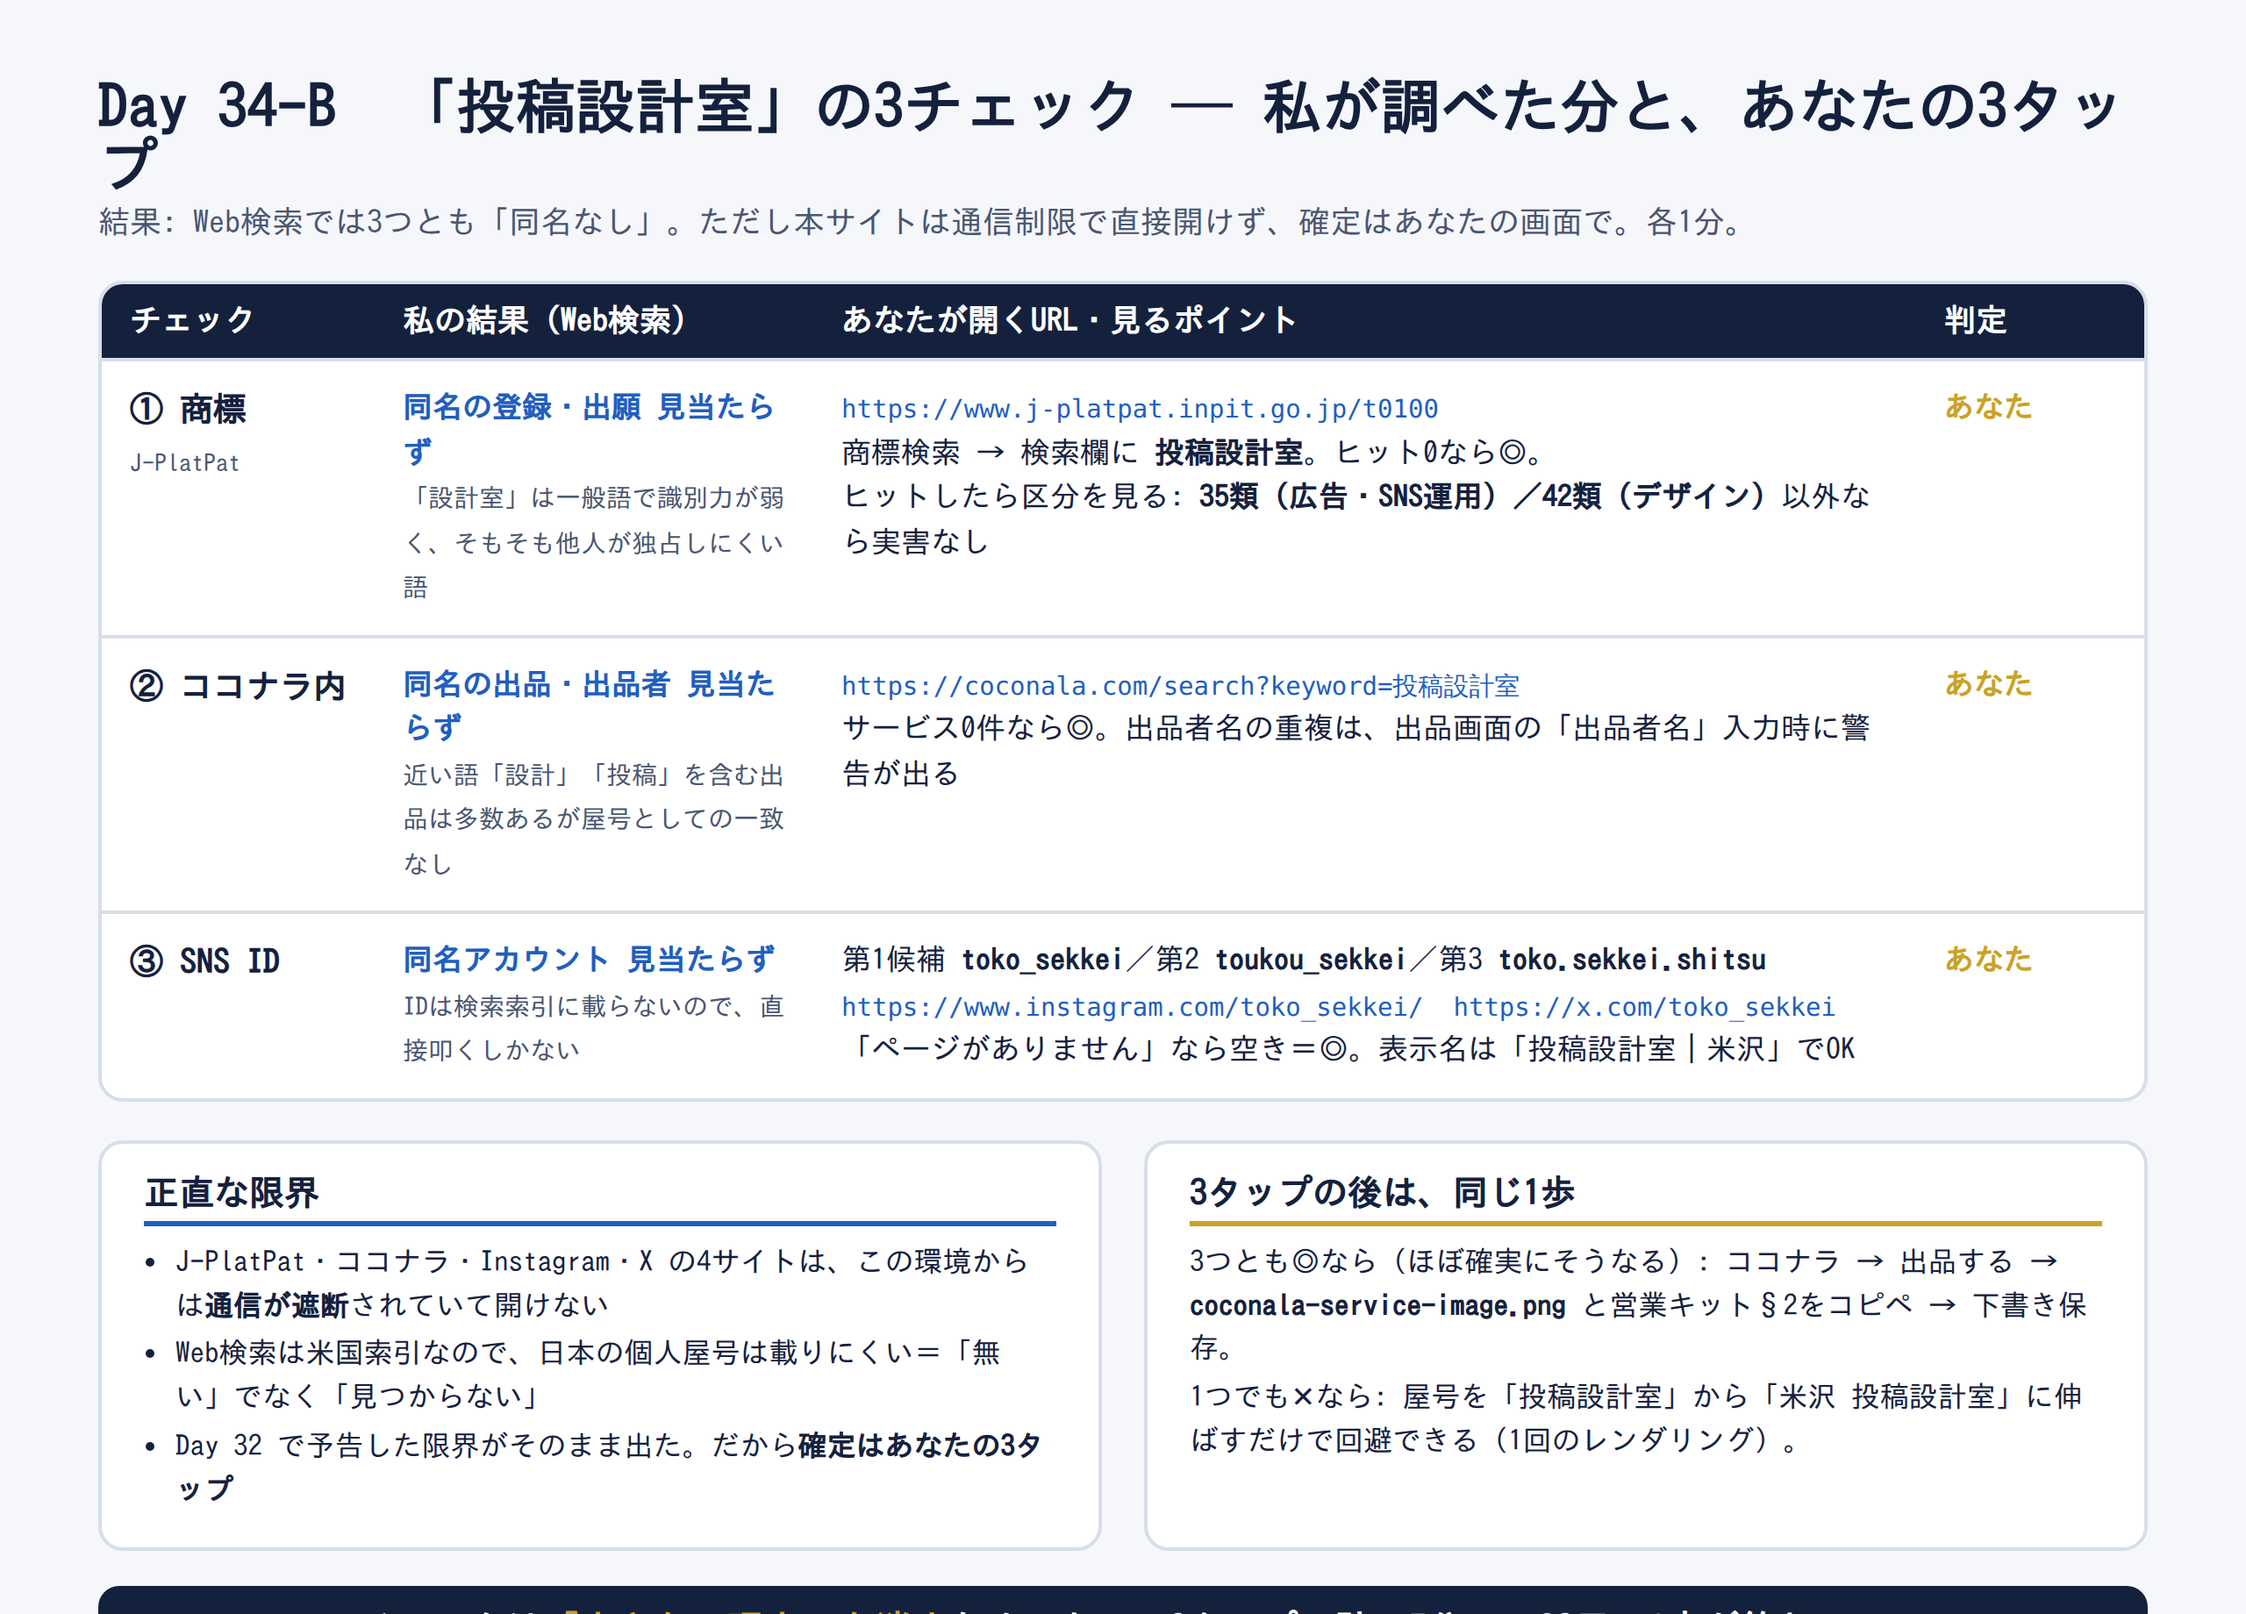
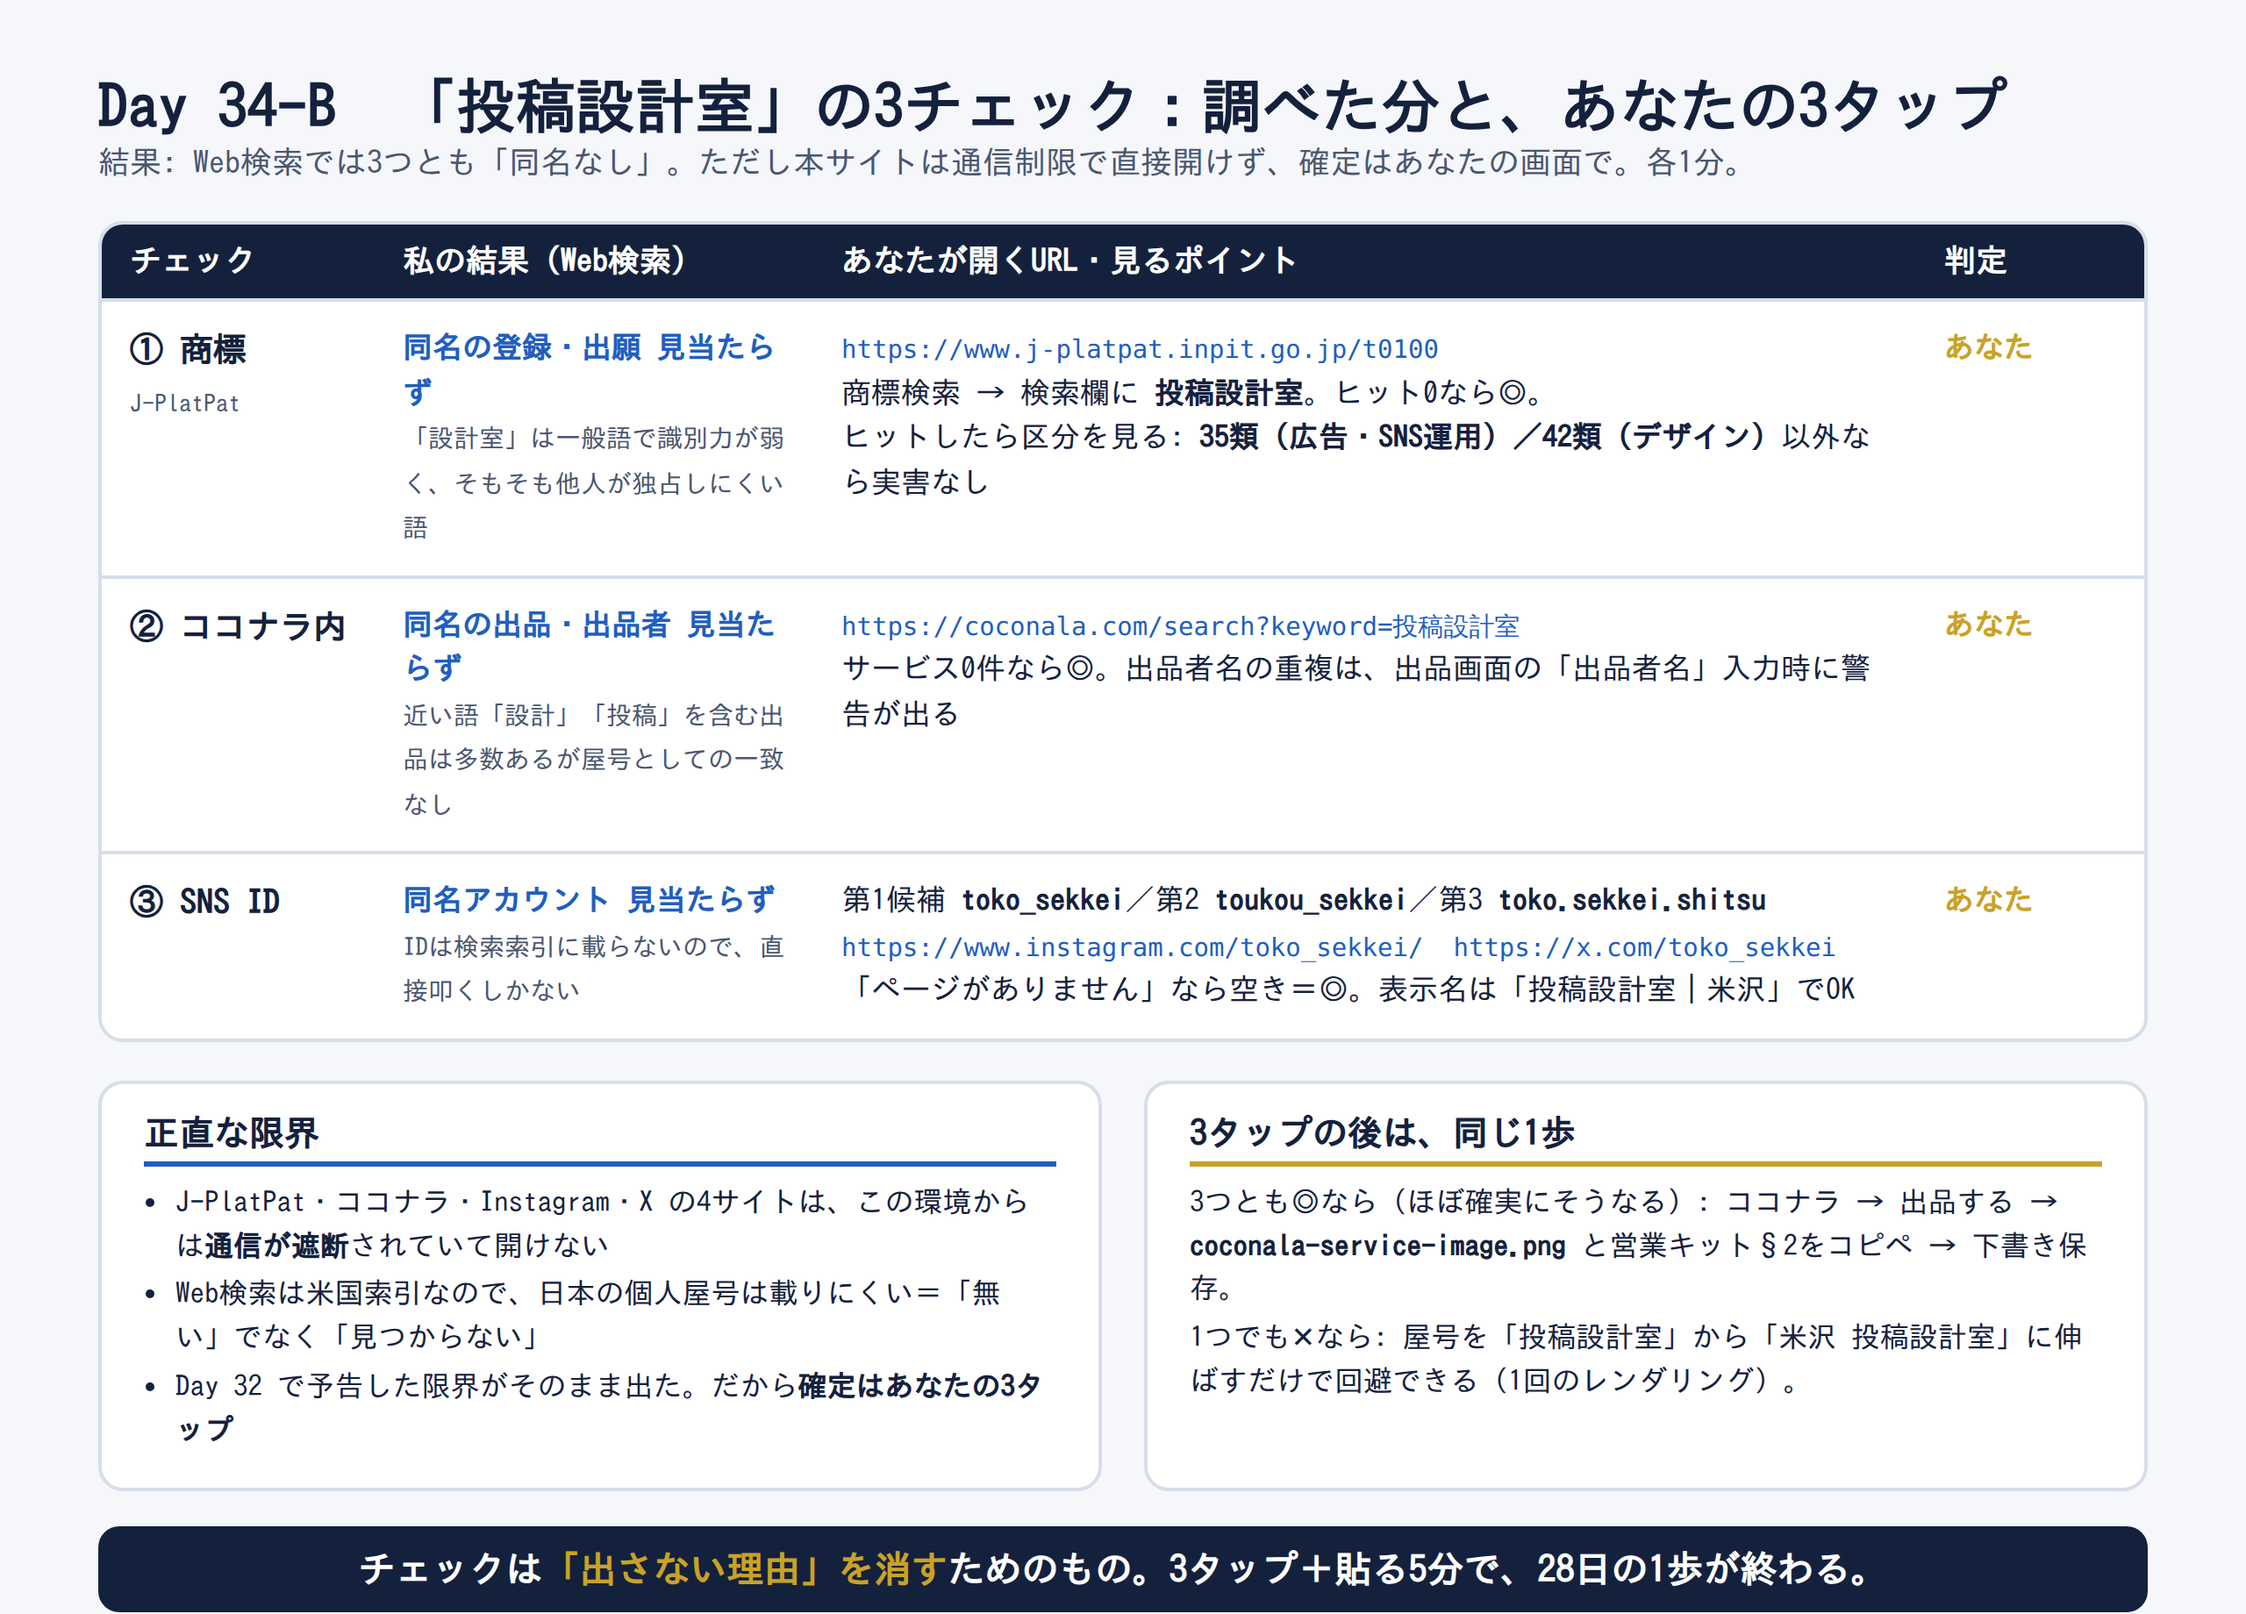
Day 34-B 図解: タイトルの折り返しを修正
Claude-Session: https://claude.ai/code/session_014hr1ioYQ7JpKWtpWRvp1iW

diff --git a/docs/lessons/day34b-投稿設計室の3チェック.html b/docs/lessons/day34b-投稿設計室の3チェック.html
@@ -18,7 +18,7 @@ td.r{white-space:nowrap}
 .foot{margin-top:20px;background:var(--navy);color:#fff;border-radius:12px;padding:14px 24px;font-size:21px;font-weight:bold;text-align:center}
 .foot span{color:var(--gold)}
 </style></head><body>
-<h1>Day 34-B　「投稿設計室」の3チェック ─ 私が調べた分と、あなたの3タップ</h1>
+<h1>Day 34-B　「投稿設計室」の3チェック：調べた分と、あなたの3タップ</h1>
 <div class="sub">結果: Web検索では3つとも「同名なし」。ただし本サイトは通信制限で直接開けず、確定はあなたの画面で。各1分。</div>
 <table>
 <tr><th style="width:150px">チェック</th><th style="width:250px">私の結果（Web検索）</th><th>あなたが開くURL・見るポイント</th><th style="width:130px">判定</th></tr>
